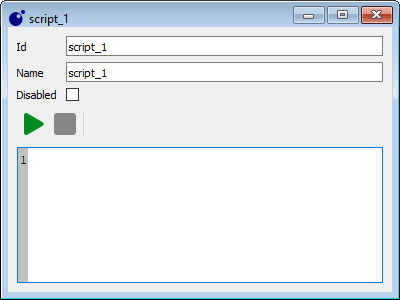
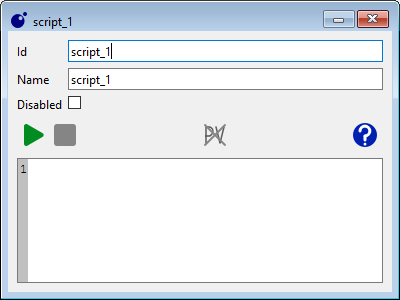
[manual] updated luu script list / editor images

Changed region(s): [[0.0, 0.0, 1.0, 0.6], [0.06, 0.93, 0.96, 0.96]]

diff --git a/manual/docs/en/advanced/scripting-basics.md b/manual/docs/en/advanced/scripting-basics.md
@@ -21,7 +21,7 @@ In Traintastic, Lua is embedded directly into the application, so you can write 
 To create or edit a script, open the **Lua scripts list** by selecting
 **Objects → Lua scripts** from the main menu.
 
-![Lua script list](../assets/images/lua/lua-scripts-list.png)
+![Lua script list](../assets/images/lua/lua-script-list-empty.png)
 
 From this dialog you can:
 
